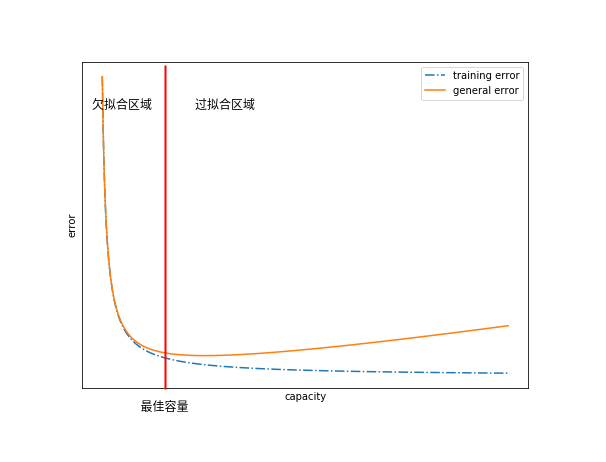
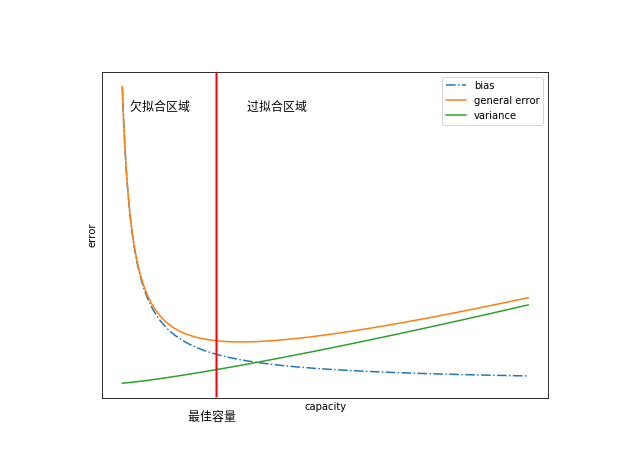
GitBook: [master] 31 pages and 4 assets modified

Changed region(s): [[0.0891, 0.1212, 0.8911, 0.9091], [0.2079, 0.7273, 0.2376, 0.7576]]

diff --git a/mo-xing-ping-gu.md b/mo-xing-ping-gu.md
@@ -7,8 +7,8 @@
    * 如：翻译任务中，应该衡量整个翻译结果的准确率，还是衡量每个单词翻译的准确率？
    * 如：密度估计任务中，很多模型都是隐式地表示概率分布。此时计算样本空间某个点的真实概率是不可行的，因此也就无法判断该点的概率估计的准确率。
 3. 通常利用最小化训练误差来训练模型，但是真正关心的是测试误差。**因此通过测试误差来评估模型的泛化能力。**
-   * 训练误差是模型在训练集的平均损失，其大小虽然有意义，但是本质上不重要。
-   * 测试误差是模型在测试集上的平均损失，反应了模型对未知测试数据集的预测能力。
+   * **训练误差是模型在训练集的平均损失，其大小虽然有意义，但是本质上不重要。**
+   * **测试误差是模型在测试集上的平均损失，反应了模型对未知测试数据集的预测能力。**
 4. **模型对未知数据的预测能力称作模型的泛化能力，它是模型最重要的性质。**
 
    泛化误差可以反映模型的泛化能力：泛化误差越小，该模型越有效。
@@ -61,7 +61,7 @@
    * 泛化误差先减小后增大。
    * 泛化误差与训练误差的差值会增大。
 
-![](.gitbook/assets/image%20%2815%29.png)
+![](.gitbook/assets/image%20%2817%29.png)
 
 #### 缓解过拟合
 
@@ -121,6 +121,158 @@
 
        如：在正态分布产生的数据集中，可以用 $$\hat\mu_m=x_1$$  作为 $$\mu$$  的一个估计。
 
-   1. 它是无偏的，因为 ，所以不论观测到多少个数据点，该估计都是无偏的
-   2. 但它不是一致的，因为他不满足
+   1. 它是无偏的，因为 $$\mathbb E[x_1]=\mu$$ ，所以不论观测到多少个数据点，该估计都是无偏的
+   2. 但它不是一致的，因为他不满足 $$\text{plim}_{m\rightarrow \infty}\hat\mu_m=\mu$$ 
+
+#### 方差
+
+1. 估计量的方差记作 $$Var(\hat \theta)$$ ，标准差记作  $$SE(\hat\theta)$$ 。
+
+   它们刻画的是：从潜在的数据分布中独立的获取样本集时，估计量的变化程度。
+
+2. 例：一组服从均值为 $$\theta$$ 的伯努利分布的独立同分布样本 $$\{x_1,x_2,\cdots,x_m\}$$ 
+   * $$\hat\theta_m=\frac 1m\sum_{i=1}^{m}x_i$$ 为 $$\theta$$ 的无偏估计。
+   *  $$Var(\hat\theta_m)=\frac 1m \theta(1-\theta)$$ 。表明估计量的方差随 $$m$$ 增加而下降。
+3. 估计量的方差随着样本数量的增加而下降，这是所有估计量的共性。
+4. 例：均值估计 $$\hat\mu_m=\frac 1m\sum_{i=1}^{m}x_i$$ ，其标准差为： $$SE(\hat\mu_m)=\sqrt{ Var\left[\frac 1m\sum_{i=1}^{m}x_i\right]}=\frac{\sigma}{\sqrt{m}}$$ 
+
+   其中 $$\sigma$$ 是样本 $$x_i$$  的真实标准差，但是这个量难以估计。实际上 $$\sqrt{\frac 1m\sum_{i=1}^{m}(x_i-\hat\mu_m)^{2}}$$ 和 $$\sqrt{\frac {1}{m-1}\sum_{i=1}^{m}(x_i-\hat\mu_m)^{2}}$$  都不是真实标准差  $$\sigma$$ 的无偏估计，这两种方法都倾向于低估真实的标准差。
+
+   实际应用中， $$\sqrt{\frac {1}{m-1}\sum_{i=1}^{m}(x_i-\hat\mu_m)^{2}}$$ 是一种比较合理的近似估计，尤其是当$$m$$  较大的时候。
+
+#### 偏差方差分解
+
+1. 偏差和方差衡量的是估计量的两个不同误差来源：
+   * 偏差衡量的是偏离真实值的误差的期望。
+   * 方差衡量的是由于数据采样的随机性可能导致的估计值的波动。
+2. 通常希望的是：
+   * 估计量的偏差比较小，即：估计量的期望值接近真实值。
+   * 估计量的方差比较小，即：估计量的波动比较小。
+3. 假设：
+
+   * 在训练集为 $$\mathbb D$$ 上学习到的模型为 $$f_\mathbb D(\mathbf{\vec x};\mathbb D)$$ 。
+
+     > 不同的训练集训练得到不同的模型，因此模型与训练集 $$\mathbb D$$ 相关。
+
+   * 样本 $$\mathbf{\vec x}$$ 的观测值为 $$\tilde y$$ ，其真实值为 $$y$$。其中 $$\tilde y=y+\epsilon$$ ，  $$\epsilon$$ 为观测误差。
+
+     > 观测误差是由人工标注失误引起的。
+
+   * 观察误差的期望为$$0$$： $$\mathbb E_{\mathbb D}(\epsilon)=0$$ 。
+   * 观测误差 $$\epsilon$$ 与真实值 $$y$$ 是相互独立的。即有： $$\mathbb E_{\mathbb D}(y\epsilon) =\mathbb E_{\mathbb D}(y )  \times \mathbb E_{\mathbb D}(\epsilon) = 0 $$ 。
+   * 样本 $$\mathbf{\vec x}$$ 的估计量为 $$\hat y_{\mathbb D}=f_\mathbb D(\mathbf{\vec x};\mathbb D)$$ 。
+
+   定义：
+
+   * 损失函数为平方损失函数： $$L(\tilde y,\hat y_{\mathbb D})=(\tilde y-\hat y_{\mathbb D})^2$$ 。
+   * 对未知样本 $$\mathbf{\vec x}$$ ：
+     * 预测偏差为： $$bias =(\mathbb E_{\mathbb D}(\hat y_{\mathbb D}) - y)^2$$ 。它刻画了期望输出与真实值之间的差别。
+     * 预测方差为： $$var =Var(\hat y_{\mathbb D})=\mathbb E_\mathbb D\left[(\mathbb E(\hat y_{\mathbb D})-\hat y_{\mathbb D})^{2}\right]$$ 。它刻画了模型输出随着训练集  $$\mathbb D$$ 的不同从而导致的波动。
+     * 噪声方差为： $$noise=Var(\epsilon)=\mathbb E_\mathbb D\left[(\tilde y-y)^{2}\right]$$ 。它刻画了不同训练集 $$\mathbb D$$ 中的噪音波动。
+
+   则未知样本 $$\mathbf{\vec x}$$ 的泛化误差定义为损失函数的期望： $$Loss = \mathbb E_\mathbb D\left[(\hat y-\tilde y)^{2}\right]=  \mathbb E_\mathbb D\left[(f_\mathbb D(\mathbf{\vec x};\mathbb D)-\tilde y)^{2}\right]$$ 。其中使用观测值 $$\tilde y$$  而不是真实值 $$y$$ ，是因为观测值已知而真实值未知。
+
+   则有： $$Loss = \mathbb E_\mathbb D\left[(\hat y_\mathbb D-\tilde y)^{2}\right] =\mathbb E_\mathbb D\left[(\hat y_\mathbb D-\mathbb E_\mathbb D(\hat y_\mathbb D))^{2}\right]+(\mathbb E_\mathbb D(\hat y_\mathbb D)-y)^{2}+\mathbb E_\mathbb D\left[(\tilde y-y)^{2}\right]\\ = var+bias+var$$ 
+
+   于是**泛化误差可以分解为偏差、方差和噪声之和**：
+
+   * 偏差  ：**度量了学习算法的期望预测与真实结果之间的偏离程度，刻画了学习算法本身的拟合能力。**
+   * 方差 ：**度量了训练集的变动所导致的学习性能的变化，刻画了数据扰动造成的影响**。
+   * 噪声  ：度量了在当前任务上任何学习算法所能达到的期望泛化误差的下界，刻画了学习问题本身的难度。
+
+   偏差-方差分解表明：泛化性能是由学习算法的能力、数据的充分性以及学习任务本身的难度共同决定的。
+
+4. 偏差-方差分解中，噪声也可以称作最优误差或者贝叶斯误差。如：在图像识别的问题中，人眼识别的错误率可以视作最优误差。
+
+   在工程实际中，通常会考察`特征完全相同，但是标签不同` 的那些样本的数量。这种样本越多，则代表`必须犯的错误` 越大。因此实际应用中可以将这个比例作为贝叶斯误差。
+
+5. 偏差、方差与模型容量有关。用`MSE`衡量泛化误差时，增加容量会增加方差、降低偏差。
+
+   * 偏差降低，是因为随着容量的增大，模型的拟合能力越强：对给定的训练数据，它拟合的越准确。
+   * 方差增加，是因为随着容量的增大，模型的随机性越强：对不同的训练集，它学得的模型可能差距较大。
+
+6. 一般来说，偏差和方差是由冲突的，这称作偏差-方差窘境`bias-variance dilemma`。
+
+   给定学习任务：
+
+   * 在训练不足时模型的拟合能力不够强，训练数据的扰动不足以使模型产生显著变化，此时偏差主导了泛化误差。
+   * 随着训练程度的加深模型的拟合能力逐渐增强，训练数据发生的扰动逐渐被模型学习到，方差逐渐主导了泛化误差。
+   * 在训练充分后模型的拟合能力非常强，训练数据发生的轻微扰动都会导致模型发生显著变化。
+
+     若训练数据自身的、非全局的特性被模型学到了，则将发生过拟合。
+
+#### 误差诊断
+
+1. 通常偏差方差反映了模型的过拟合与欠拟合。
+   * **高偏差对应于模型的欠拟合**：模型过于简单，以至于未能很好的学习训练集，从而使得训练误差过高。
+
+     此时模型预测的方差较小，表示预测较稳定。但是模型预测的偏差会较大，表示预测不准确。
+
+   * **高方差对应于模型的过拟合**：模型过于复杂，以至于将训练集的细节都学到，将训练集的一些细节当做普遍的规律，从而使得测试集误差与训练集误差相距甚远。
+
+     此时模型预测的偏差较小，表示预测较准确。但是模型预测的方差较大，表示预测较不稳定。
+2. 误差诊断：通过训练误差和测试误差来分析模型是否存在高方差、高偏差。
+
+   * 如果训练误差较高：说明模型的方差较大，模型出现了欠拟合。
+   * 如果训练误差较低，而测试误差较高：说明模型的偏差较大，出现了过拟合。
+   * 如果训练误差较低，测试误差也较低：说明模型的方差和偏差都适中，是一个比较理想的模型。
+   * 如果训练误差较高，且测试误差更高：说明模型的方差和偏差都较大。
+
+   上述分析的前提是：训练集、测试集的数据来自于同一个分布，且最优误差较小。否则讨论更复杂。
+
+#### 误差缓解
+
+1. 高方差和高偏差是两种不同的情况。如果算法存在高偏差的问题，则准备更多训练数据其实没什么卵用。
+
+   所以首先要清楚：问题是高偏差还是高方差还是二者兼有。
+
+2. 如果模型存在高偏差，则通过以下策略可以缓解：
+   * 选择一个容量更大、更复杂的模型。
+   * 使用更先进的最优化算法。该策略通常在神经网络中使用。
+3. 如果模型存在高方差，则通过以下策略可以缓解：
+   * 增加更多的训练数据。它通过更多的训练样本来对模型参数增加约束，会降低模型容量。
+
+     如果有更多的训练数据，则一定会降低方差。
+
+   * 使用正则化。它通过正则化项来对模型参数增加约束，也会降低模型容量。
+
+     有时候更多的训练数据难以获取，只能使用正则化策略。
+4. **通常优先解决高偏差的问题。这是最低标准，要反复尝试，直到训练误差降低到足够小。**
+
+   **然后试图降低方差。**
+
+   **总之就是不断重复尝试，直到找到一个低偏差、低方差的模型。**
+
+### 参数估计准则
+
+#### 最大似然估计
+
+1. 假设数据集 $$\mathbf X=\{\mathbf{\vec x}_1,\mathbf{\vec x}_2,\cdots,\mathbf{\vec x}_m\}$$ 中的样本独立同分布地由 $$p_{data}(\mathbf{\vec x})$$ 产生，但是该分布是未知的。 $$p_{model}(\mathbf{\vec x};\theta)$$ 是一族由 $$\theta$$ 参数控制的概率分布函数族，希望通过 $$p_{model}(\mathbf{\vec x};\theta)$$ 来估计真实的概率分布函数 $$p_{data}(\mathbf{\vec x})$$ ，也就是要估计 $$\theta$$ 参数。
+2. 最大似然估计最大化数据集 $$\mathbf X$$  出现的概率。即： $$\theta_{ML}=\arg\max_{\theta}p_{model}(\mathbf X;\theta) =\arg\max_\theta\prod_{i=1}^{m}p_{model}(\mathbf{\vec x}_i;\theta)$$ 
+   * 由于概率的乘积会因为很多原因不便使用（如容易出现数值下溢出），因此转换为对数的形式： $$\theta_{ML}=\arg\max_\theta\sum_{i=1}^{m}\log p_{model}(\mathbf{\vec x}_i;\theta)$$ 。
+   * 因为 $$m$$ 与 $$\theta$$ 无关，因此它也等价于： $$\theta_{ML}=\arg\max_\theta\sum_{i=1}^{m}\frac 1m \log p_{model}(\mathbf{\vec x}_i;\theta)$$  。
+   * 由于数据集的经验分布为： $$\hat p_{data}(\mathbf{\vec x})=\frac 1m\sum_{i=1}^{m}\delta(\mathbf{\vec x}-\mathbf{\vec x}_i)$$ ，其中 $$\delta(\cdot)$$ 为狄拉克函数。因此： $$\theta_{ML}=\arg\max_\theta\mathbb E_{\mathbf{\vec x}\sim \hat p_{data}} \log p_{model}(\mathbf{\vec x};\theta)$$ 。
+3. 考虑数据集的经验分布 $$\hat p_{data}$$ 和真实分布函数的估计量 $$p_{model}$$ 之间的差异，`KL`散度为： $$D|_{KL}(\hat p_{data} || p_{model};\theta) =\mathbb E_{\mathbf{\vec x}\sim \hat p_{data}}[\log \hat p_{data}(\mathbf{\vec x})-\log  p_{model}(\mathbf{\vec x;\theta})]$$ 
+
+   由于 $$\log \hat p_{data}(\mathbf{\vec x})$$  与 $$\theta$$ 无关，因此要使得 $$D|_{KL}(\hat p_{data} || p_{model};\theta)$$ 最小，则只需要最小化 $$\mathbb E_{\mathbf{\vec x}\sim \hat p_{data}}[-\log  p_{model}(\mathbf{\vec x};\theta)]$$ 。也就是最大化 $$\mathbb E_{\mathbf{\vec x}\sim \hat p_{data}} \log p_{model}(\mathbf{\vec x};\theta)$$ 。
+
+   因此：**最大似然估计就是最小化数据集的经验分布** $$\hat p_{data}$$  **和真实分布函数的估计量**  $$p_{model}$$ **之间的差异** 。
+
+4. 最大似然估计可以扩展到估计条件概率。
+
+   假设数据集 $$\mathbf X=\{\mathbf{\vec x}_1,\mathbf{\vec x}_2,\cdots,\mathbf{\vec x}_m\}$$ ，对应的观测值为 $$\mathbf Y=\{y_1,y_2,\cdots,y_m\}$$ 。则条件概率的最大似然估计为： $$\theta_{ML}=\arg\max_\theta p(\mathbf Y\mid \mathbf X;\theta)$$ 。
+
+   如果样本是独立同分布的，则可以分解成： $$\theta_{ML}=\arg\max_\theta\sum_{i=1}^{m}\log p(y_i\mid \mathbf{\vec x}_i;\theta)$$ 。
+
+5. 最大似然估计有两个很好的性质：
+   * 在某些条件下，最大似然估计具有一致性。这意味着当训练样本数量趋向于无穷时，参数的最大似然估计依概率收敛到参数的真实值。
+
+     这些条件为：
+
+     * 真实分布 $$p_{data}$$ 必须位于分布函数族 $$p_{model}(\cdot;\theta)$$ 中；否则没有估计量可以表示 $$p_{data}$$ 。
+     * 真实分布 $$p_{data}$$ 必须对应一个 $$\theta$$ 值；否则从最大似然估计恢复出真实分布 $$p_{data}$$ 之后，也不能解出参数 $$\theta$$ 。
+
+   * 最大似然估计具有很好的统计效率`statistic efficiency`。即只需要较少的样本就能达到一个良好的泛化误差。
+6. 最大似然估计通常是机器学习中的首选估计准则。
+7. 当样本数量太少导致过拟合时，正则化技巧是最大似然的有偏估计版本。
 
